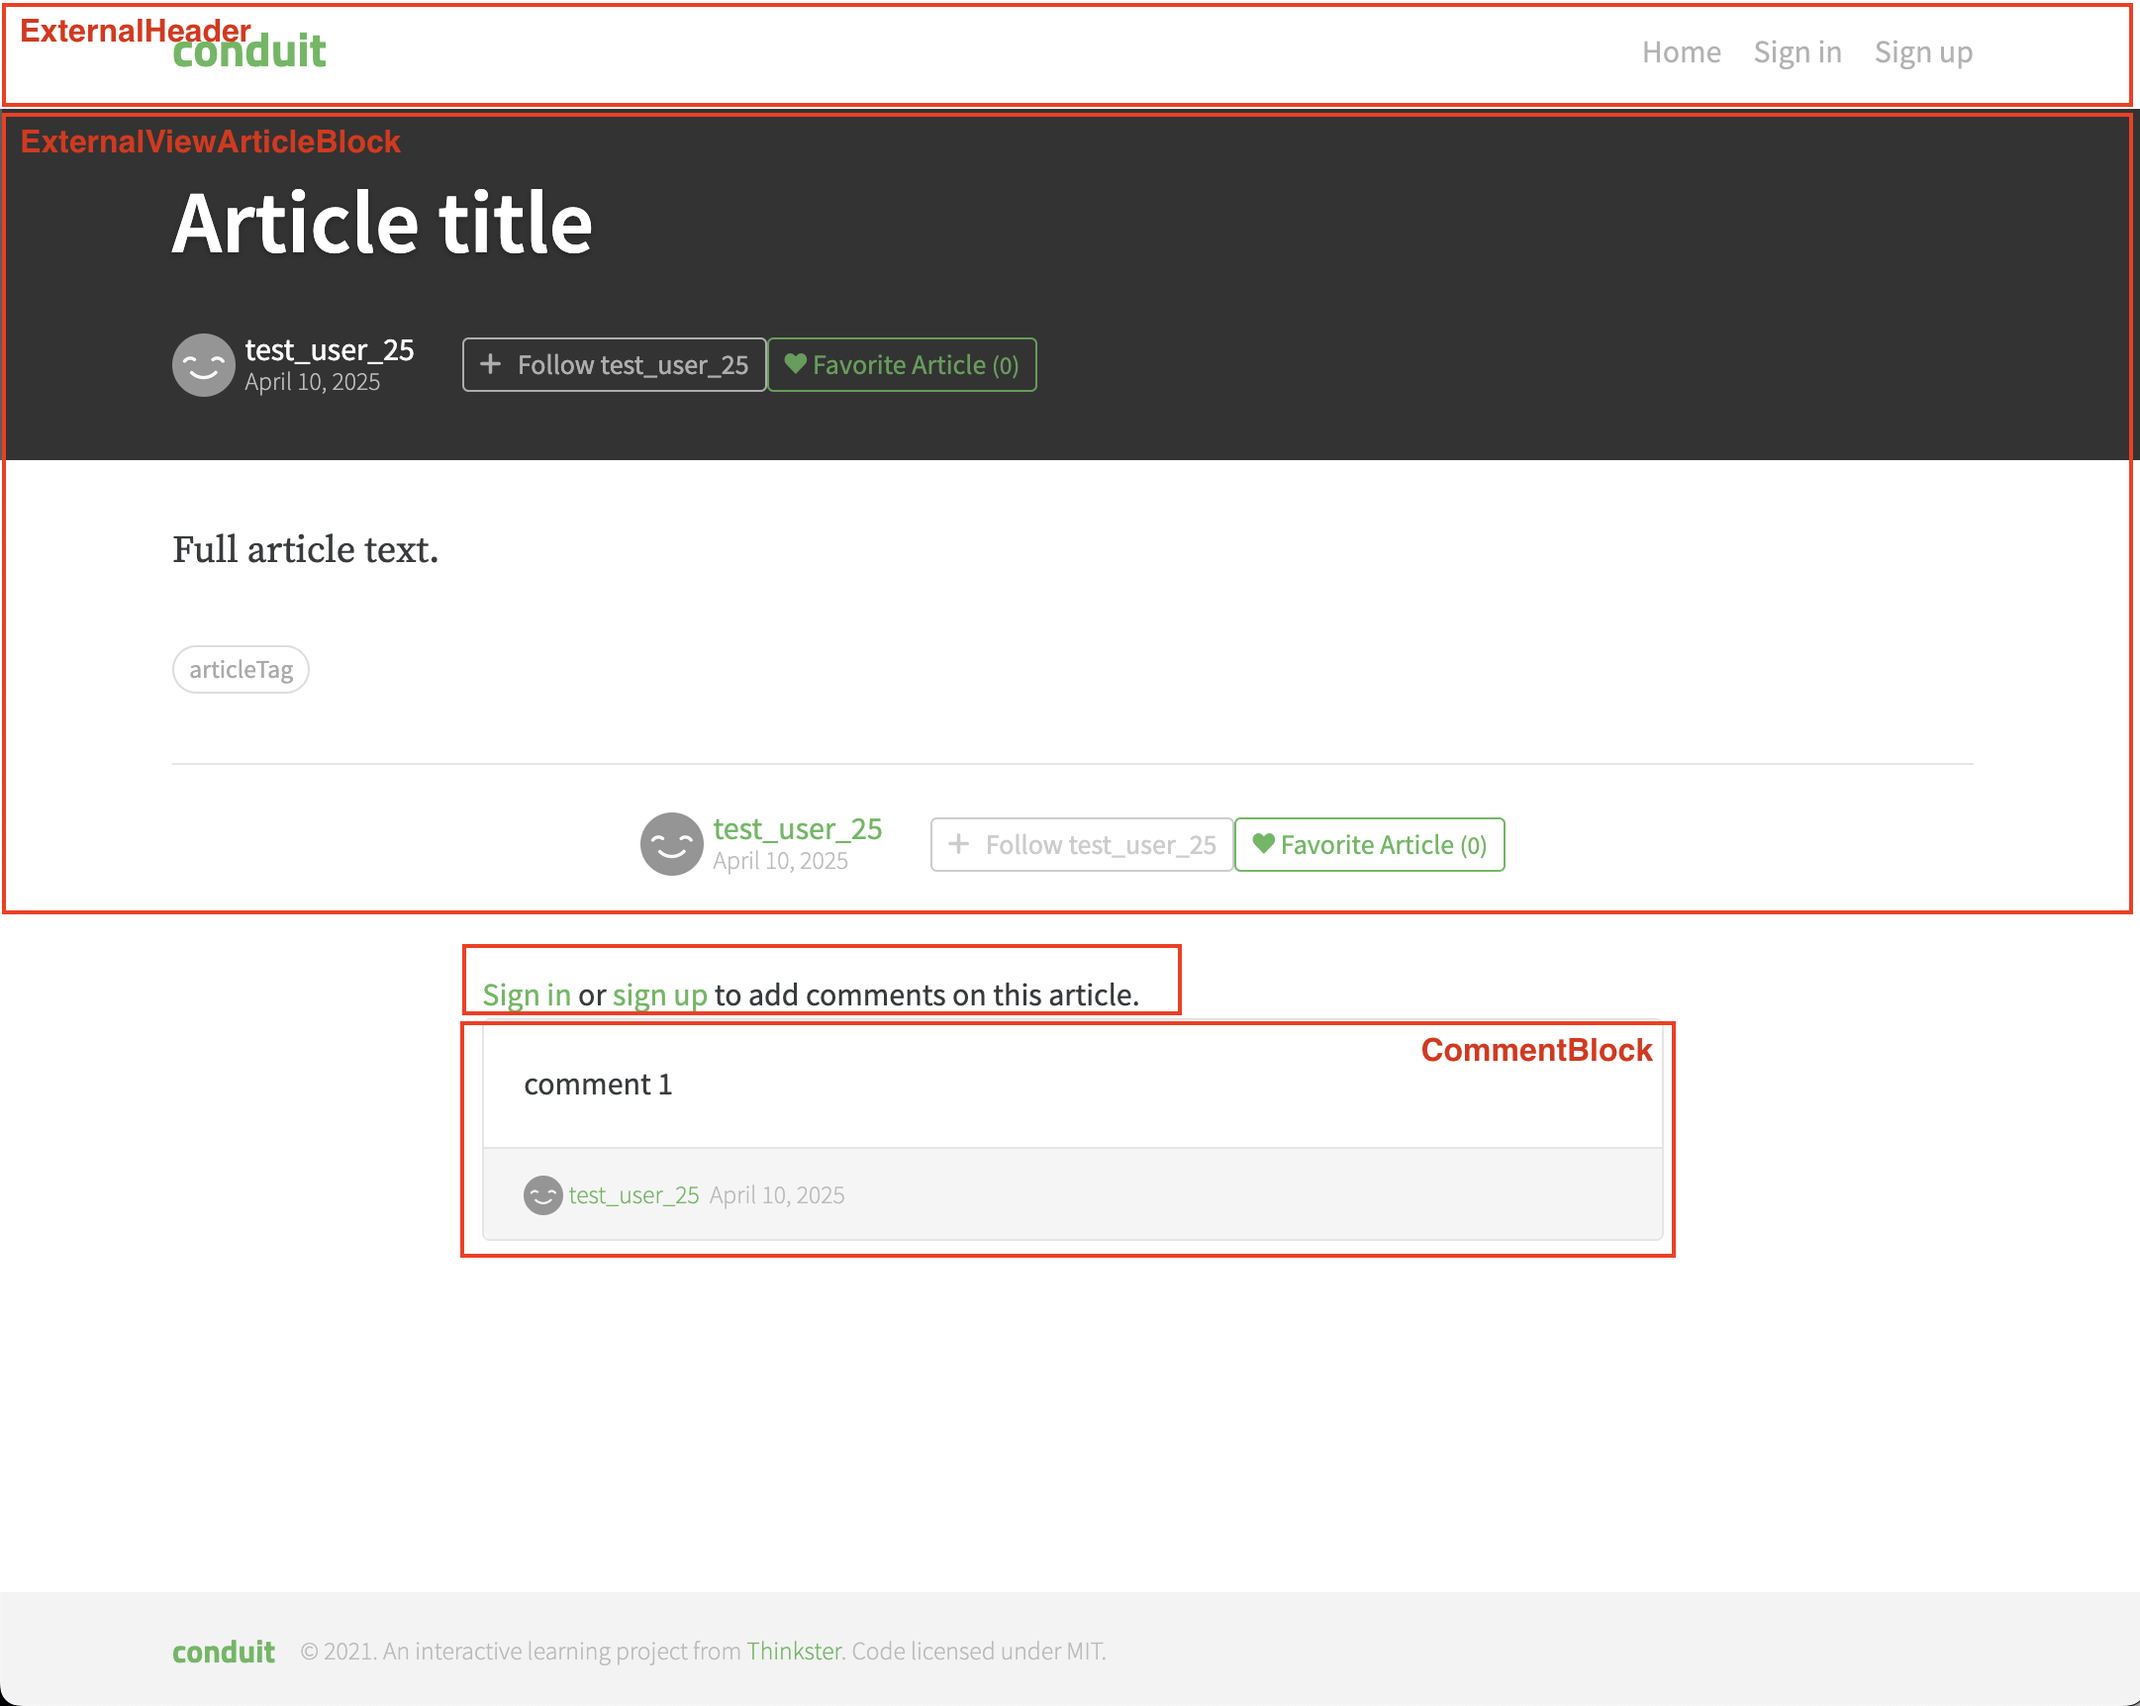
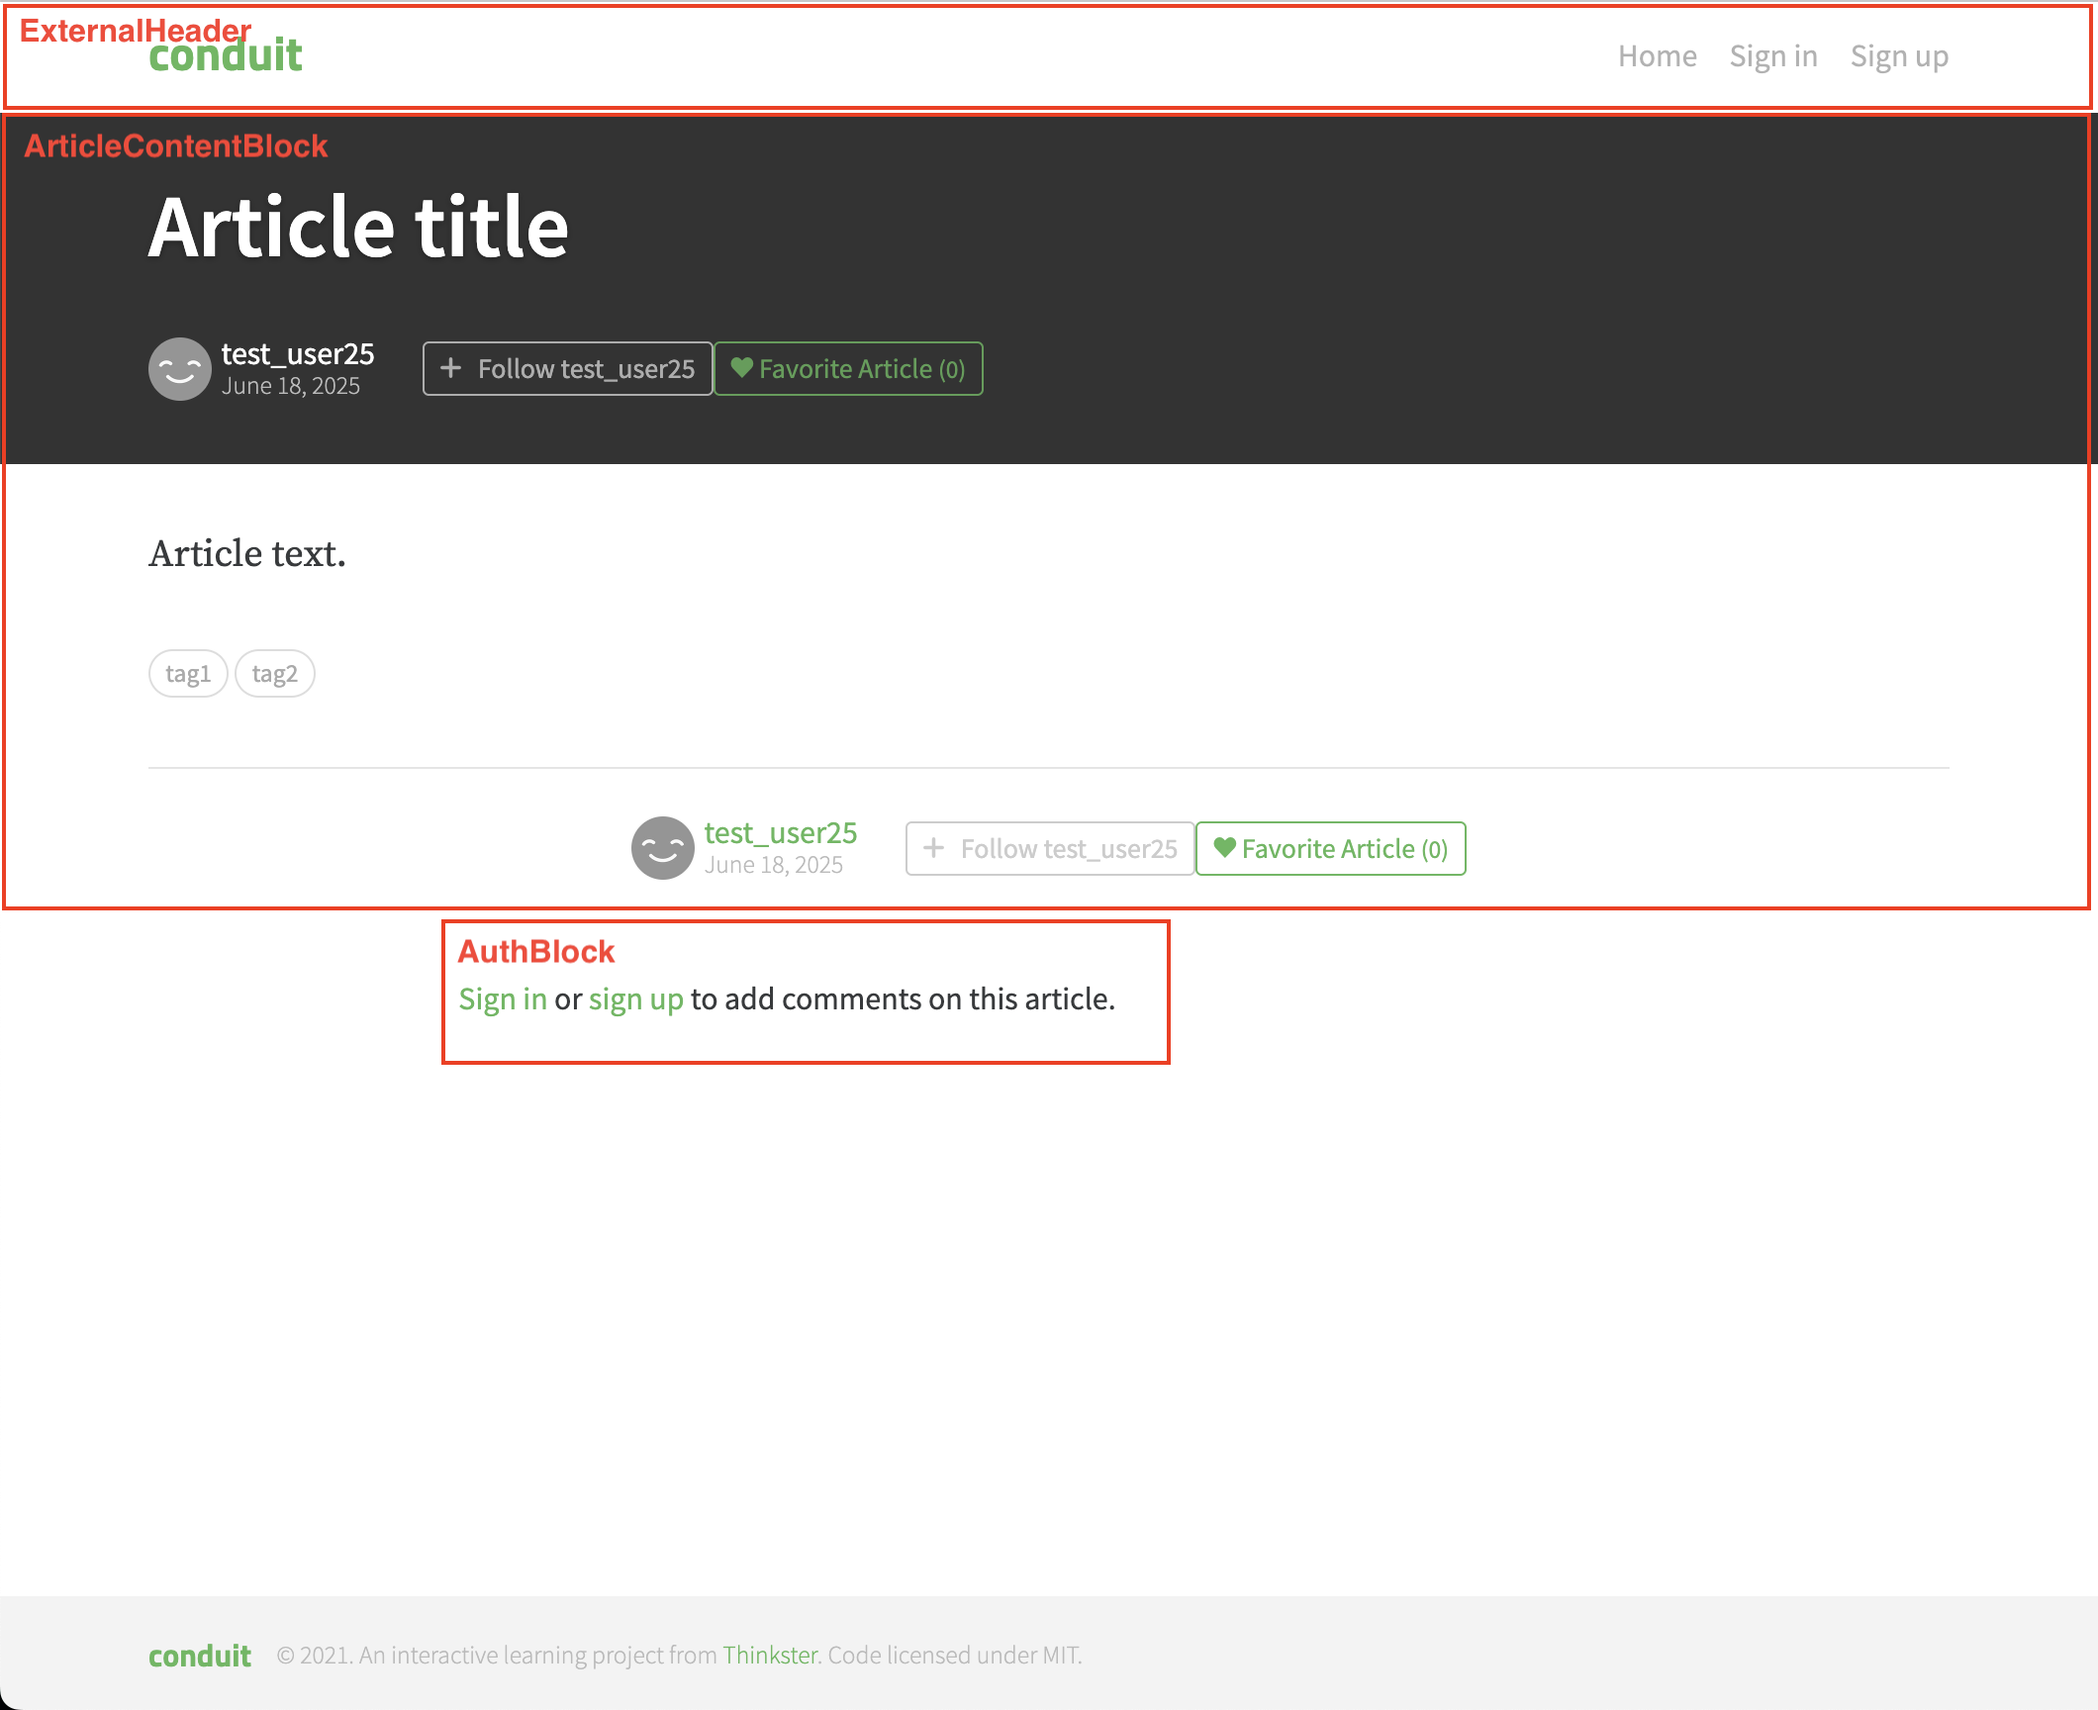
Updated task description

diff --git a/README.md b/README.md
@@ -21,11 +21,11 @@ and for the `InternalHomePage`:
 
 Also for the `ExternalViewArticlePage`:
 
-![external view article page](https://github.com/mate-academy/qa_pw_oop_composition_conduit/blob/main/ExternalViewArticlePage.png) 
+![external view article page](https://github.com/mate-academy/qa_pw_oop_composition_conduit/blob/main/ExternalViewArticlePage1.png) 
 
 and the `InternalViewArticlePage`:
 
-![internal view article page](https://github.com/mate-academy/qa_pw_oop_composition_conduit/blob/main/InternalViewArticlePage.png) 
+![internal view article page](https://github.com/mate-academy/qa_pw_oop_composition_conduit/blob/main/InternalViewArticlePage1.png) 
 
 
 ## Preparation
@@ -62,10 +62,10 @@ and the `InternalViewArticlePage`:
 - create page `BaseViewArticlePage`;
 - extend `ExternalViewArticlePage` and `InternalViewArticlePage` pages from the `BaseViewArticlePage`;
 * 2.5
-- create the `BaseViewArticleBlock` component;
-- extend the `ExternalViewArticleBlock` and `InternalViewArticleBlock` from the `BaseViewArticleBlock` component  
-- initialize `InternalViewArticleBlock` component within the `InternalViewArticlePage` constructor;
-- initialize `ExternalViewArticleBlock` component within the `ExternalViewArticlePage` constructor;
+- create the `BaseArticleContentBlock` component;
+- extend the `GeneralArticleContentBlock` and `AuthorArticleContentBlock` from the `BaseArticleBody` component  
+- initialize `GeneralArticleContentBlock` component within the `BaseViewArticlePage` constructor;
+- initialize `AuthorArticleContentBlock` component within the `InternalViewArticlePage` constructor;
 3. Run all the tests and make sure they are passing.
 
 ## Task Reporting
